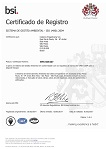
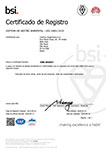
Alteraçoes

diff --git a/Web/application/views/certificacoes_view.php b/Web/application/views/certificacoes_view.php
@@ -18,7 +18,12 @@
 			<p>&nbsp;</p>
 			<p style="margin-top: 50px">Execu&ccedil;&atilde;o de Obras Rodovi&aacute;rias, Ferrovi&aacute;rias, Obras de Artes Especiais e de Edifica&ccedil;&otilde;es</p>
 			<p style="font-size: 20px; font-weight: 800">Política de Gestão Integrada</p>
-			<p>"N&oacute;s, da CETENCO ENGENHARIA S.A., com o apoio de nossos colaboradores e da tecnologia dispon&iacute;vel, nos comprometemos, na execu&ccedil;&atilde;o das obras, a atender aos requisitos legais e outros aplic&aacute;veis, buscando a melhoria cont&iacute;nua de nossos processos, produtos e servi&ccedil;os, visando &agrave; satisfa&ccedil;&atilde;o de nossos clientes e minimizando os riscos ambientais, de sa&uacute;de e seguran&ccedil;a ocupacional".</p>
+			<p>"Nós, da CETENCO ENGENHARIA S.A., com o apoio de nossos colaboradores e da tecnologia disponível, nos 
+			comprometemos, na execução das obras, a atender aos requisitos legais e outros aplicáveis, buscando a
+			 melhoria contínua de nossos processos, produtos e serviços, proporcionando condições de trabalho seguras e 
+			 saudáveis, realizando a consulta e promovendo a participação dos trabalhadores, protegendo o meio ambiente, 
+			 visando à satisfação de nossos clientes, eliminando perigos e minimizando os riscos ambientais, de saúde e 
+			 segurança ocupacional".</p>
 			<p style="text-align:right">A Diretoria</p>
 		</div>					
 
@@ -29,12 +34,12 @@
 			<tr>
 				<td style="padding-left:60px"><a href="http://www.cetenco.com.br/includes/img/certificacoes/iso_9001.jpg" class="pop" rel="thumbs"><img src="http://www.cetenco.com.br/includes/img/certificacoes/iso_9001_thumb.jpg" style="border:1px solid #666" /></a></td>
 				<td style="padding-left:60px"><a href="http://www.cetenco.com.br/includes/img/certificacoes/iso_14001.jpg" class="pop" rel="thumbs"><img src="http://www.cetenco.com.br/includes/img/certificacoes/iso_14001_thumb.jpg" style="border:1px solid #666" /></a></td>
-				<td style="padding-left:60px"><a href="http://www.cetenco.com.br/includes/img/certificacoes/ohsas_18001.jpg" class="pop" rel="thumbs"><img src="http://www.cetenco.com.br/includes/img/certificacoes/ohsas_18001_thumb.jpg" style="border:1px solid #666" /></a></td>
+				<td style="padding-left:60px"><a href="http://www.cetenco.com.br/includes/img/certificacoes/iso_45001.jpg" class="pop" rel="thumbs"><img src="http://www.cetenco.com.br/includes/img/certificacoes/iso_45001_thumb.jpg" style="border:1px solid #666" /></a></td>
 			</tr>
 			<tr>
 				<td style="padding-left:60px">ISO 9001</td>
 				<td style="padding-left:60px">ISO 14001</td>
-				<td style="padding-left:60px">OHSAS 18001</td>
+				<td style="padding-left:60px">ISO 45001</td>
 			</tr>
 <!--
  			<tr>
